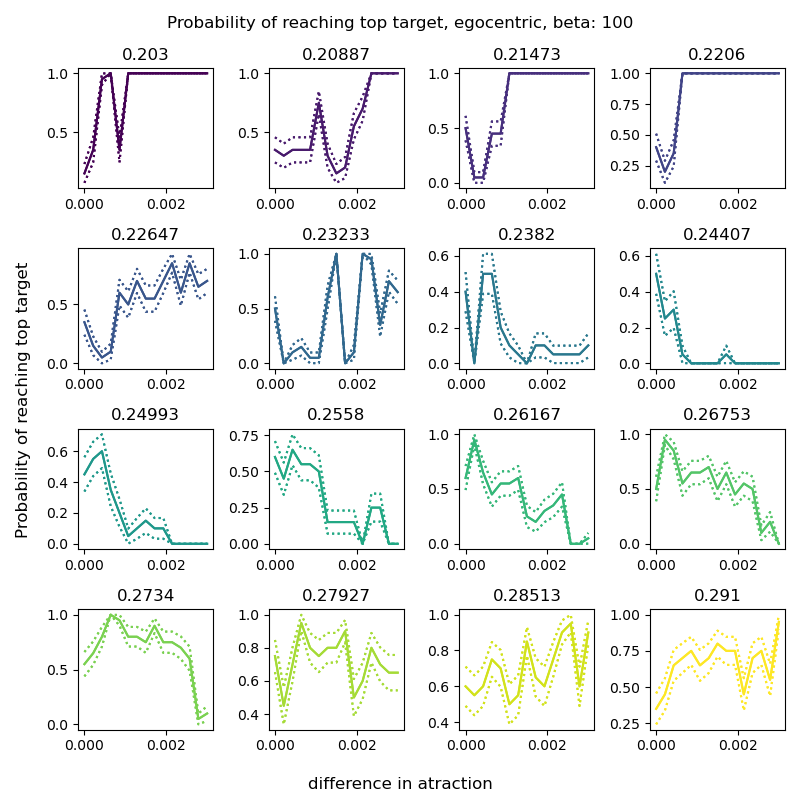
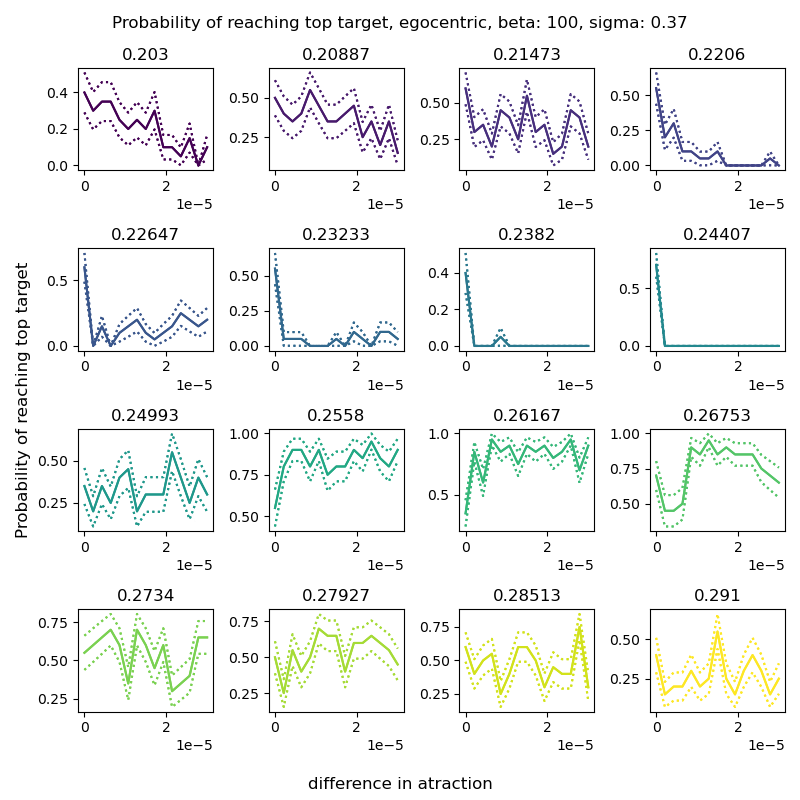
some sweeps for the presentation (including decision time and angle)

diff --git a/sweeps.py b/sweeps.py
@@ -98,20 +98,18 @@ base = {'N':N,
 plot_trajs = [False, 'scatter'] 
 plot_neurons = False
 uneven = True
-sample_size = 5
+sample_size = 30
 start = 0.18
-finish = 0.333
-n_h0 = 5
+finish = 0.33
+n_h0 = 50
 h0_range= np.linspace(start,finish,num=n_h0)
 #h0_for_plot = h0_range
 h0_total_list = []
 # 9.5: 0.215-0.32, 10: 0.208-0.325, 12: 0.189-0.339, 20: 0.177-0.338, 52: 0.182-0.325, 180: 0.189-0.326 ? 
-beta_list = [20,100] # 0.22 to 0.31 - 0.1925-0.335
-for i in range(len(beta_list)):
-    h0_list = []
-    for item in h0_range:
-        h0_list.append([[item,item]])
-    h0_total_list.append(h0_list)
+beta_list = [10,12,20,40,100] # 0.22 to 0.31 - 0.1925-0.335
+h0_list = []
+for item in h0_range:
+    h0_list.append([item,item])
 
 # defining our metrics of interest: 
 time_total_list = []
@@ -119,13 +117,15 @@ prob_total_list = []
 prob_se_list = []
 decision_points_total = []
 decision_pos_total = []
+decision_pos_x_total = []
+
+# want to get the x position of the last decision point where y was close to 50
 
 # we want to sweep over sigmas, so each time we set the h0 and the beta, and have sigma as change
-for index in range(len(h0_total_list)):
-    for h0 in h0_total_list[index]:
-        print(f"h0: {h0}")
+for index in range(len(beta_list)):
+        #print(f"h0: {h0_lis}")
         print(f"beta: {beta_list[index]}")
-        change= {'h0':h0}
+        change= {'h0':h0_list}
         base['beta'] = beta_list[index]
         success_list, target_list, time_list, decision_points, decision_pos, sum_activity_list, activity_df, x_list, y_list, headings_list  = repeated_sims.sample_sims(base,change,sample_size,include_trajs=plot_trajs,include_activity=plot_neurons)
         p_success, se_success, p_correct, se_correct, p_target, se_target = sim_met.get_success_rate(target_list, sample_size, ntargets, uneven, 1)
@@ -134,18 +134,23 @@ for index in range(len(h0_total_list)):
         prob_se_list.append(se_target)
         decision_points_total.append(decision_points)
         decision_pos_total.append(decision_pos)
-        print(f"p target: {p_target}")
-        print(f"decision points: {decision_points}")
-        print(f"decision po: {decision_pos}")
-        print(f"time: {time_list}")
+        xpos_list = []
+        for item in decision_pos:
+            if len(item) == 0:
+                xpos_list.append(80)
+            if len(item) == 1:
+                xpos_list.append(item[0][0])
+            if len(item) > 1:
+                index_first_dec = 0
+                for index in range(len(item)):
+                    if np.abs(item[index][1]-50) >= 3:
+                        index_first_dec = index - 1
+                xpos_list.append(item[index_first_dec][0])
+        decision_pos_x_total.append(xpos_list)
     
 correct_df = pd.DataFrame(prob_total_list)
 #correct_df.index = h0_list
 #correct_df.columns = beta_list
-print(f"correct df: {correct_df}")
-print(f"time_total_list: {time_total_list}")
-print(f"one sim: {time_total_list[0]}")
-print(f"total: {prob_total_list}")
 
 # compile the data we want from each run into a dataframe
 # we want: p_correct and time, and we would prefer if they are labeled with simulation settings
@@ -156,31 +161,31 @@ figure_num = 1
 
 # overall plotting settings
 cmap = plt.get_cmap('viridis')
-colors_time = cmap(np.linspace(0, 1, n_h0))
+colors_time = cmap(np.linspace(0, 1, len(beta_list)))
 labels_time = []
-for item in h0_range:
-    labels_time.append(f'h0: {item}') 
+for item in beta_list:
+    labels_time.append(f'beta: {item}') 
 
 colors_prob = ['blue','red']
 #labels_prob = ['lower target','middle target','upper target']
     
+fig, axs = plt.subplots(1, 2, figsize=(14, 7),num=1)
 
 x_label = "h0"
 time_y_label = "Average time to target"
-for index in range(len(beta_list)):
-    time_agg_title = f"Average time to target, {"allocentric" if allocentricFlag==1 else "egocentric"}, beta: {beta_list[index]}, sigma: {sigma}"
-    figure_num, mean_time = sim_met.plot_metric(time_total_list[n_h0*index:n_h0*(index+1)],h0_range,colors_time,labels_time,figure_num,(8,8),
+time_agg_title = f"Average time to target, {"allocentric" if allocentricFlag==1 else "egocentric"}, sigma: {sigma}"
+figure_num, mean_time = sim_met.plot_metric(time_total_list,h0_range,colors_time,labels_time,axs[0],
                             time_agg_title,x_label,time_y_label)
     
 time_df = pd.DataFrame(mean_time)
 #time_df.index = beta_list
 #time_df.columns = h0_range
 
-dec_time_y_label = "Average time to decision"
-for index in range(len(beta_list)):
-    decision_time_agg_title = f"Average time to bifurcation, {"allocentric" if allocentricFlag==1 else "egocentric"}, beta: {beta_list[index]}, sigma: {sigma}"
-    figure_num, mean_dec_time = sim_met.plot_metric(decision_points_total[n_h0*index:n_h0*(index+1)],h0_range,colors_time,labels_time,figure_num,(8,8),
-                                                    decision_time_agg_title,x_label,dec_time_y_label)
+    
+dec_posx_y_label = "Average x position at decision"
+decision_posx_agg_title = f"Average x position at bifurcation, {"allocentric" if allocentricFlag==1 else "egocentric"}, sigma: {sigma}"
+figure_num, mean_dec_time = sim_met.plot_metric(decision_pos_x_total,h0_range,colors_time,labels_time,axs[1],
+                                                    decision_posx_agg_title,x_label,dec_posx_y_label)
 
 '''
 p_success_y = "Probability of reaching each target (green middle)"

diff --git a/simulation_metrics.py b/simulation_metrics.py
@@ -87,7 +87,7 @@ def get_bifurcation_times(xPos,yPos):
     # get the x positions, return them
     dec_pos = []
     for item in dec_points:
-        dec_pos.append([xPos[item],yPos[item]])
+        dec_pos.append((xPos[item],yPos[item]))
     return dec_points, dec_pos
 
 def get_success_rate(target_list, sample_size, ntargets=2, uneven=False, best_index=-1):
@@ -213,7 +213,7 @@ def find_bumps(activity):
 
     return bump_list
 
-def plot_metric(metrics,x,colors,labels,figurenum,size,title,xlabel,ylabel):
+def plot_metric(metrics,x,colors,labels,fig,title,xlabel,ylabel):
     '''
     A function which plots an aggregated metric over changing values of a parameter
     Parameters:
@@ -225,8 +225,8 @@ def plot_metric(metrics,x,colors,labels,figurenum,size,title,xlabel,ylabel):
     '''
     # first step: get the dimesions to line up
     # second step: plot it
-    plt.figure(figsize=size)
-    plt.figure(figurenum)
+    #plt.figure(figsize=size)
+    #plt.figure(figurenum)
     n_values = len(x)
     sample_size = len(metrics[0])//n_values
     mean_metric_list = []
@@ -239,20 +239,20 @@ def plot_metric(metrics,x,colors,labels,figurenum,size,title,xlabel,ylabel):
             mean_metric.append(np.mean(sample_metric))
             se_metric.append(np.std(sample_metric)/np.sqrt(sample_size))
         if m == 0 or m == (len(metrics)-1):
-            plt.plot(x, mean_metric, color = colors[m], label = labels[m])
-            plt.plot(x, np.add(mean_metric,se_metric), color = colors[m], label = 'standard error', linestyle = ':')
-            plt.plot(x, np.subtract(mean_metric,se_metric), color = colors[m], linestyle = ':')
+            fig.plot(x, mean_metric, color = colors[m], label = labels[m])
+            fig.plot(x, np.add(mean_metric,se_metric), color = colors[m], label = 'standard error', linestyle = ':')
+            fig.plot(x, np.subtract(mean_metric,se_metric), color = colors[m], linestyle = ':')
         else:
-            plt.plot(x, mean_metric, color = colors[m])
-            plt.plot(x, np.add(mean_metric,se_metric), color = colors[m], linestyle = ':')
-            plt.plot(x, np.subtract(mean_metric,se_metric), color = colors[m], linestyle = ':')
+            fig.plot(x, mean_metric, color = colors[m])
+            fig.plot(x, np.add(mean_metric,se_metric), color = colors[m], linestyle = ':')
+            fig.plot(x, np.subtract(mean_metric,se_metric), color = colors[m], linestyle = ':')
         mean_metric_list.append(mean_metric)
 
-    plt.legend()
-    plt.title(title)
-    plt.xlabel(xlabel)
-    plt.ylabel(ylabel)
-    return figurenum+1, mean_metric_list
+    fig.legend()
+    fig.set_title(title)
+    fig.set_xlabel(xlabel)
+    fig.set_ylabel(ylabel)
+    return 0, mean_metric_list
 
 
 def plot_neurons(activity_df, figure, agg=True, tstart=0, tstop=0, N=100, start_neuron=0, end_neuron=100):

diff --git a/simulations_ego.py b/simulations_ego.py
@@ -58,7 +58,7 @@ allocentricFlag = 0 # 1 is allo, 0 is ego
 h0s = [0.22,0.22] # attraction vector, first are attraction for targets, then agents
 h_b = 0.2
 sigma = 0.37 #0.25 works for three target (sometimes)
-beta = 100 #100 works for double
+beta = 20 #100 works for double
 
 
 # -------- Running the simulation --------
@@ -105,10 +105,10 @@ max_range_list = []
 
 
 for i in range(5):
-    min_low = 0.23- 0.04 + 0.01*np.random.rand()
-    min_high = 0.23 + 0.04 + 0.01*np.random.rand()
-    max_low = 0.27 - 0.04 + 0.01*np.random.rand()
-    max_high = 0.27 + 0.04 + 0.01*np.random.rand()
+    min_low = 0.22- 0.04 + 0.01*np.random.rand()
+    min_high = 0.22 + 0.04 + 0.01*np.random.rand()
+    max_low = 0.28 - 0.04 + 0.01*np.random.rand()
+    max_high = 0.28 + 0.04 + 0.01*np.random.rand()
     min_est,range_min = repeated_sims.boundary_search(base,min_low,min_high,10,True,'h0',0.2) # probably also want to return the final step size to get an idea of the scale of the boundary point
     max_est, range_max = repeated_sims.boundary_search(base,max_low,max_high,10,False,'h0',0.2)
     print(f"boundaries, sim: {i}: {min_est,max_est}")

diff --git a/sweeps_ego.py b/sweeps_ego.py
@@ -58,7 +58,7 @@ allocentricFlag = 0 # 1 is allo, 0 is ego
 h0s = [0.25,0.25] # attraction vector, first are attraction for targets, then agents
 h_b = 0.2
 sigma = 0.37
-beta = 100
+beta = 20
 
 
 # -------- Running the simulation --------
@@ -105,7 +105,7 @@ h0_range= np.linspace(start,finish,num=15)
 h0_for_plot = h0_range
 h0_total_list = []
 # 9.5: 0.215-0.32, 10: 0.208-0.325, 12: 0.189-0.339, 20: 0.177-0.338, 52: 0.182-0.325, 180: 0.189-0.326 ? 
-base_h0_list = np.linspace(0.203,0.291,num=16) # 0.22 to 0.31 - 0.1925-0.335
+base_h0_list = np.linspace(0.231,0.281,num=16) # 0.22 to 0.31 - 0.1925-0.335
 n_lines = len(base_h0_list)
 for n in range(n_lines):
     h0_list = []

diff --git a/simulate_ringattractor.py b/simulate_ringattractor.py
@@ -52,8 +52,8 @@ def simulate_ring_attractor(N,L,T,ntargets,nagents,allocentricFlag,periodic_flag
         xPos[a,0] = initialx[a]
         yPos[a,0] = initialy[a]
         if allocentricFlag == 0: # Ego should randomly initialize heading, allo should not (for making neurons interpretable)
-            #headings[a,0] = 2*math.pi*np.random.rand() 
-            headings[a,0] = 0
+            headings[a,0] = 2*math.pi*np.random.rand() 
+            #headings[a,0] = 0
         else:
             headings[a,0] = 0
         alpharing[a,:] = np.mod(alpharing[a,:]+headings[a,0], 2*np.pi)
